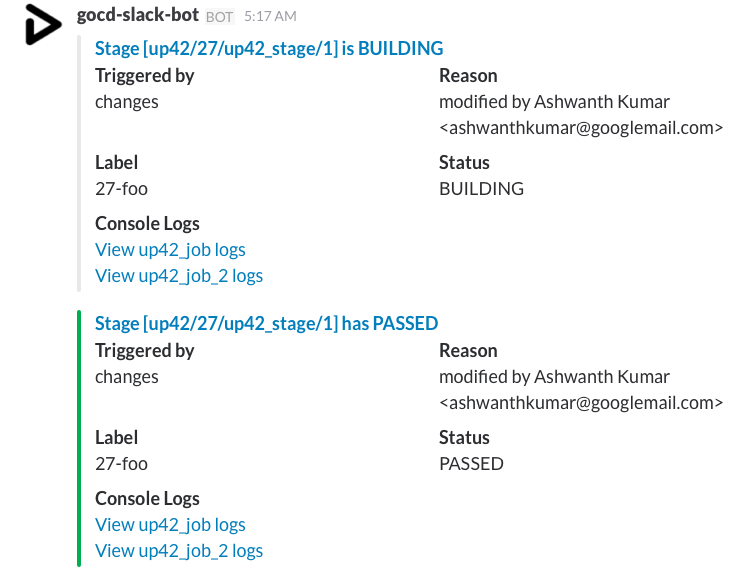
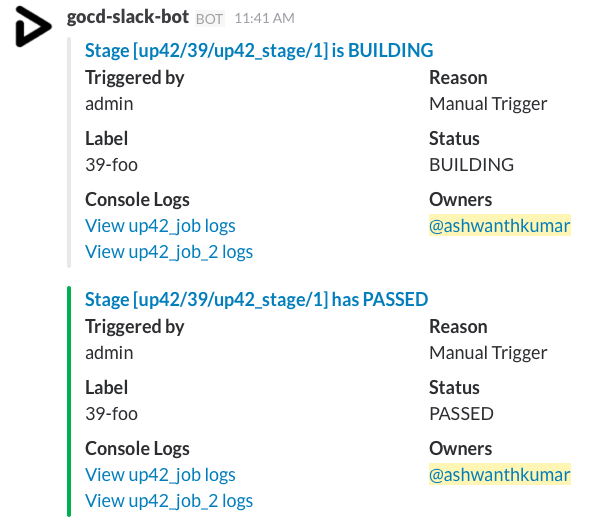
Notes on owners in README + updates to Demo image

diff --git a/README.md b/README.md
@@ -57,6 +57,7 @@ gocd.slack {
     stage = "build"
     state = "failed|passed"
     channel = "#oss-build-group"
+    owners = ["ashwanthkumar"]
   },
   {
     name = ".*"
@@ -70,6 +71,7 @@ gocd.slack {
 - `stage` - Regex to match the stage name
 - `state` - State of the pipeline at which we should send a notification. You can provide multiple values separated by pipe (`|`) symbol. Valid values are passed, failed, cancelled, building, fixed, broken or all.
 - `channel` - (Optional) channel where we should send the slack notification. This setting for a rule overrides the global setting
+- `owners` - (Optional) list of slack user handles who must be tagged in the message upon notifications
 
 ## License
 
